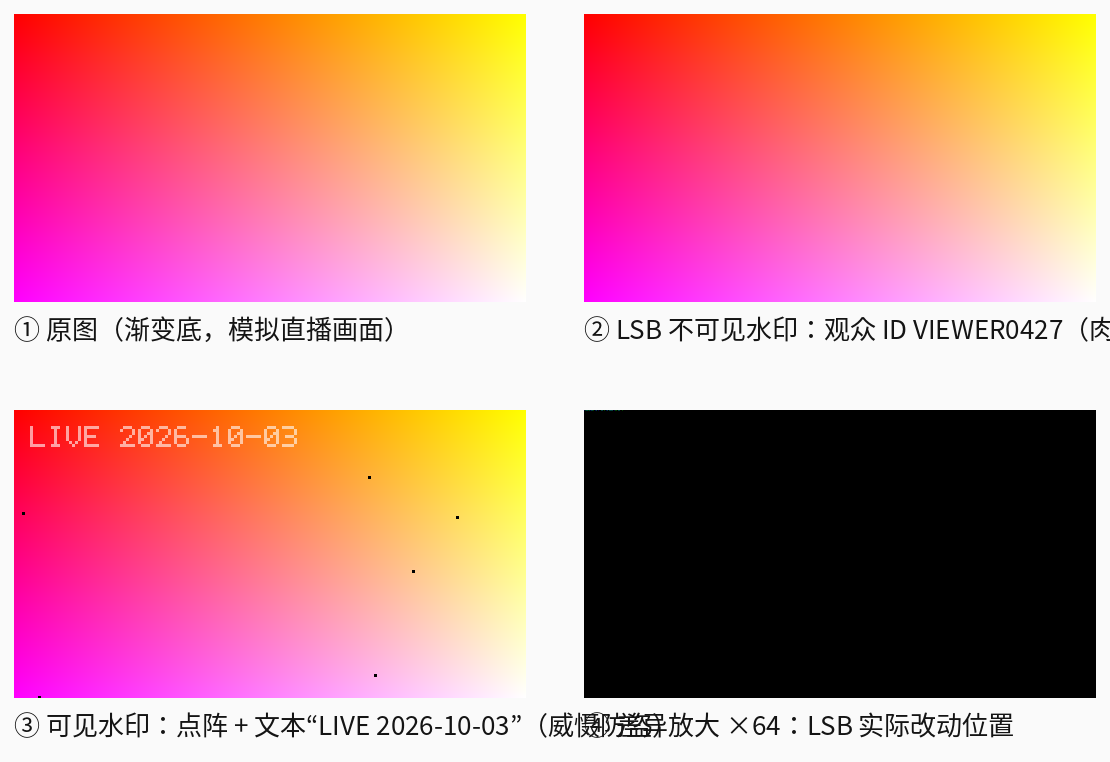
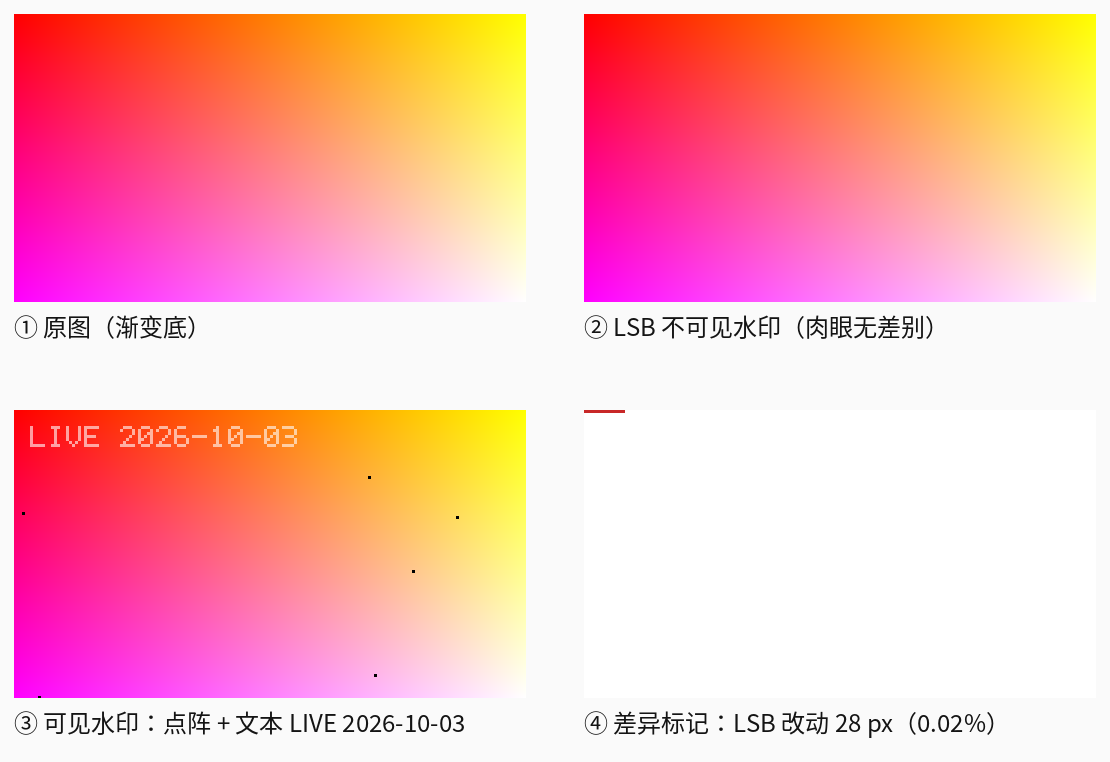
fix(demo): compare.png bottom-right cell was all-black — mark diff pixels instead of scaling channel diffs; label count/ratio; sync README caption

Changed region(s): [[0.0, 0.5131, 1.0, 0.9659], [0.5207, 0.3924, 1.0, 0.4528], [0.0, 0.3924, 0.3676, 0.4528]]

diff --git a/README.md b/README.md
@@ -95,7 +95,7 @@ let rate = @lib.extract_dots(back, dcfg)   // ≥0.9 判定水印存在
 
 ## 演示
 
-嵌入前后对比（2×2：**左上原图 → 右上 LSB 不可见水印 → 左下可见水印 → 右下差异放大 ×64**，显示 LSB 实际改动位置）：
+嵌入前后对比（2×2：**左上原图 → 右上 LSB 不可见水印 → 左下可见水印 → 右下差异标记**，红色点为 LSB 实际改动位置——512×288 图仅 28 px，占比 0.02%，肉眼不可察）：
 
 ![嵌入前后对比](docs/demo/compare.png)
 
